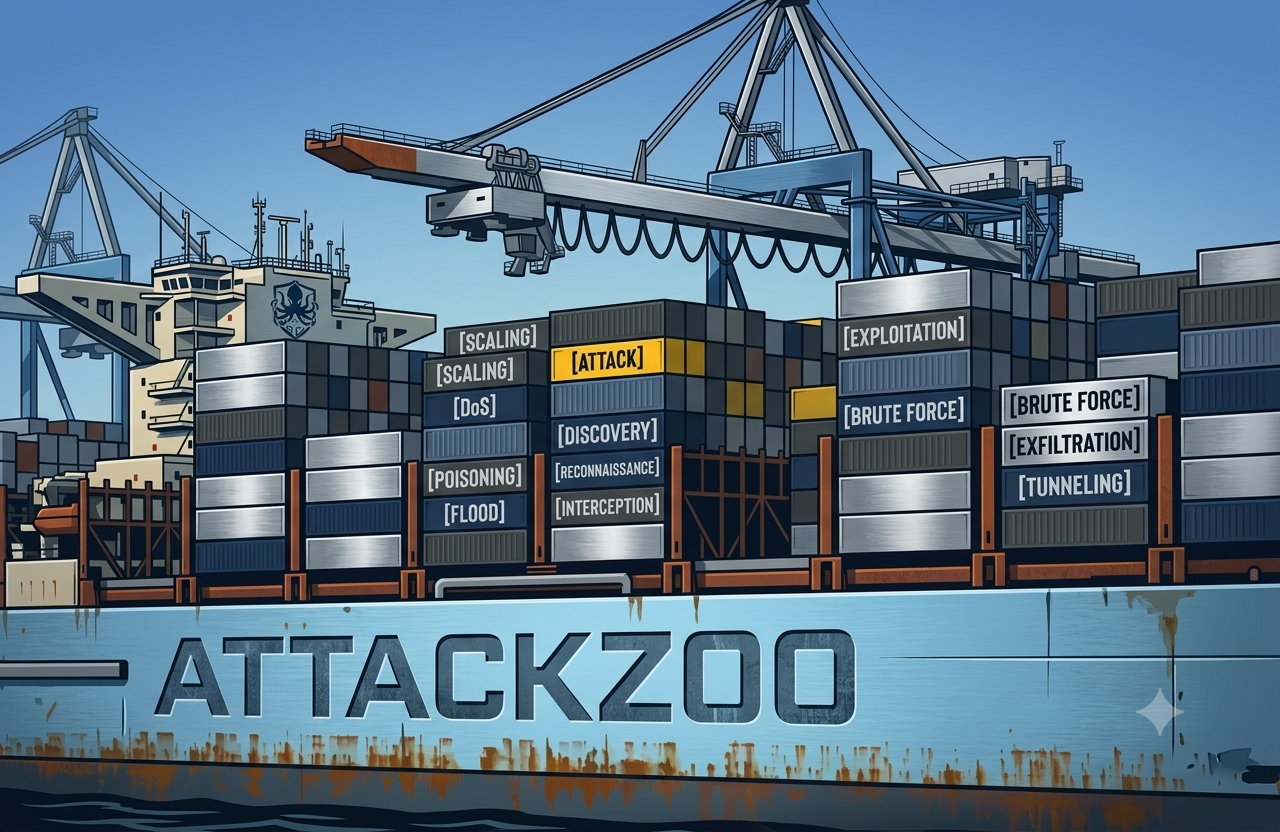
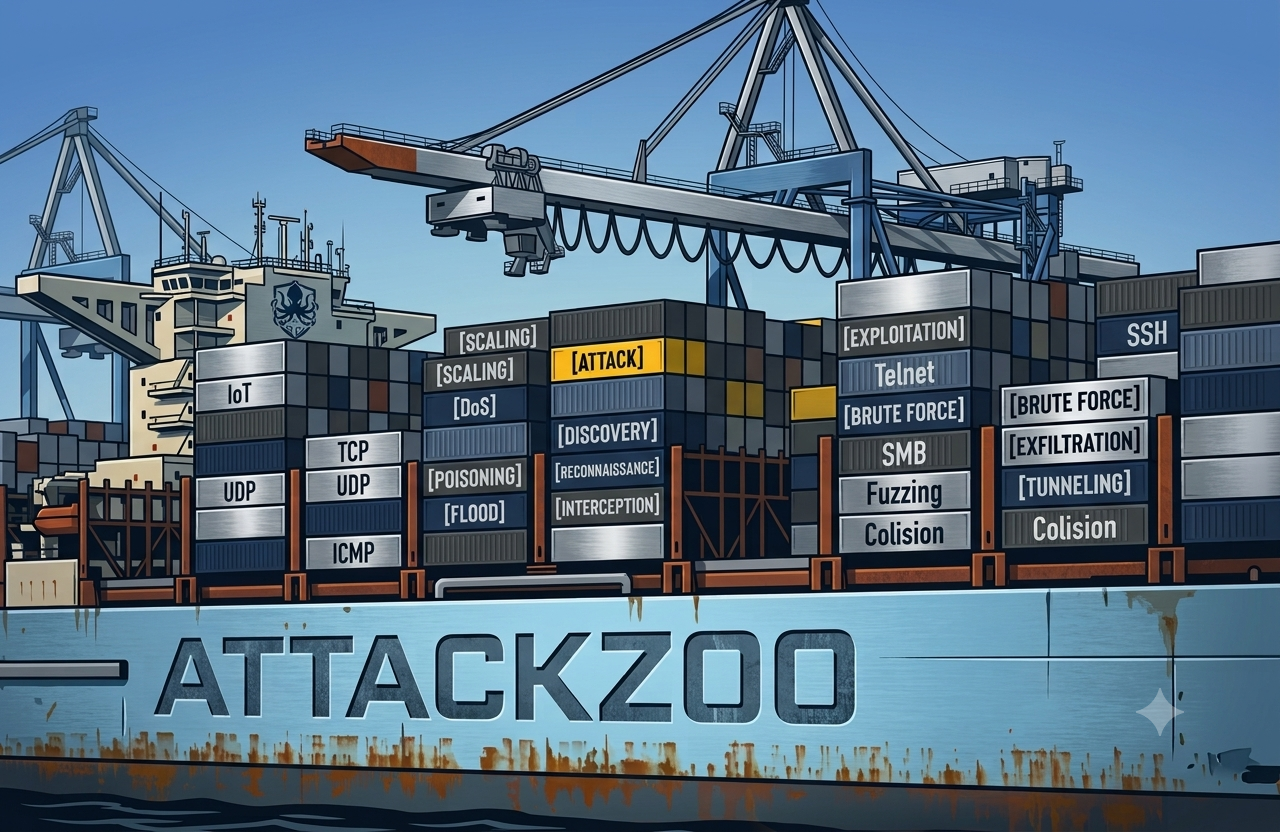
README

diff --git a/README.md b/README.md
@@ -15,7 +15,7 @@
 
 # AttackZoo: A Reproducible Testbed for the Execution of Attacks and the Generation of Network Traffic Datasets
 
-This repository contains **AttackZoo**, a Docker-based testbed for building and running controlled network, application, and IoT attack scenarios. The artifact automates target servers, benign clients, attack containers, traffic capture, feature extraction, dataset generation, and experiment reporting through both a command-line interface and a Streamlit UI.
+This repository contains **AttackZoo**, a Docker-based testbed for building and running controlled network, application, and IoT attack scenarios. The artifact automates target servers, benign clients, attack containers, traffic capture, feature extraction, dataset generation, and experiment reporting through both a command-line (CLI) interface and an optional Streamlit Web UI.
 
 The associated paper, "Containerized Attack Testbed: A Reproducible Approach for Generating Traffic Evidence," presents an environment for producing reproducible traffic evidence from parameterized Docker attacks. The artifact is intended to let reviewers inspect the testbed, run attacks in an isolated lab, capture PCAP files, and regenerate metrics and reports used to support the paper's claims.
 
